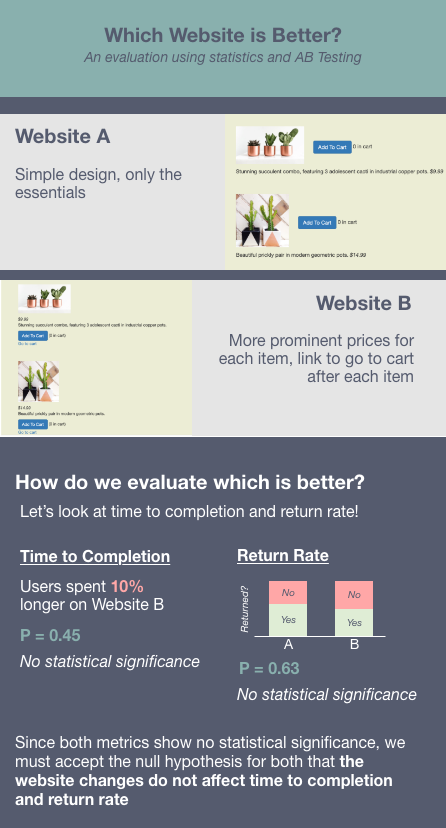
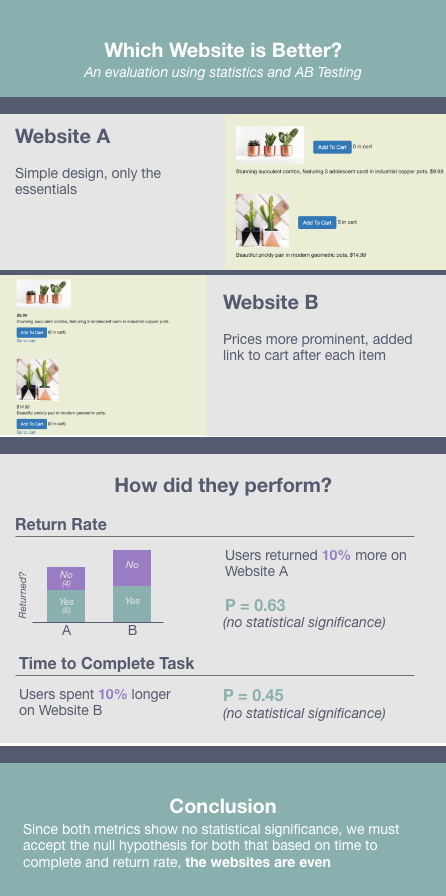
improvements

diff --git a/home.html b/home.html
@@ -14,7 +14,7 @@
 
     <h2> Overview </h2>
     <p>
-       In this project I sought to determine whether the changes I made to website provided a better user experience. To do this, I used AB testing on 24 users, then analyzed the data I processed about time spent on the website and the rate to which users returned to the website using T-Tests and Chi-Squared tests.
+       In this project I sought to determine whether the changes I made to website provided a better user experience. To do this, I conducted AB testing on 24 users and compared the amount of time users spent on each website and the rate at which users returned to each website. I then used T-Tests and Chi-Squared tests to find whether the differences were significant, and based on this I found that the two websites showed no statistical difference.
 
     </p>
     <h3>The Websites</h3>
@@ -29,6 +29,8 @@
 	      <img src="websiteB.png"/>
 	    </div>
 	</div>
+	<p>The main differences between the websites are that in Website B, the prices for each item have been move to a line about the description to be more prominent, a link to go to the cart has been added after each item, and the main cart button has been moved to the top.
+
 
     <h2> Hypotheses </h2>
     <h3>Time to Completion</h3>
@@ -39,11 +41,11 @@
 
     <h3>Return Rate</h3>
     I hypothesize that having link to go to the cart after each item in Website B, rather than only having one button to go to the cart in Website A, makes it easier for users to switch back and forth between the main page and the cart, and more back and forth means more returns to the page.
-    <p><b>Null Hypotheses:</b> Adding a link to go to the cart will not affect the return rate.</p>
-    <p><b>Alternate Hypotheses:</b> Adding a link to go to the cart after each item will increase the return rate. </p>
+    <p><b>Null Hypotheses:</b> Adding a link to the cart after each item will not affect the return rate.</p>
+    <p><b>Alternate Hypotheses:</b> Adding a link to the cart after each item will increase the return rate. </p>
 
  <h2>Data Collection</h2>
- <p>I collected data by deploying my two websites on heroku as a single website that will randomly select whether to show Website A or Website B. I then sent this link to other students in the class who were told to complete the task of adding $150 worth of cacti to the cart. 24 students visited the website and completed the task (I removed 3 visitors who arrived at the webpage and did not do anything). I retrieved the data from heroku concerning time to completion and return rate using heroku logs, then converted it to a csv so that I could process and clean it by hand.  </p>
+ <p>I collected data by deploying my two websites on heroku as a single website that randomly selects whether to show Website A or Website B each time it is loaded. I then sent this link to other students in the class who were told to complete the task of adding $150 worth of cacti to the cart. 24 students visited the website and completed the task (there were an additional 3 visitors who I removed because they arrived at the webpage and did not do anything). I retrieved time to completion and return rate data from heroku using heroku logs, then converted it to a csv so that I could process and clean it by hand using Google Sheets.  </p>
   
 
     <h2> Infographic </h2>
@@ -53,10 +55,10 @@
 </div>
 
     <h2>Conclusions & Takeaways </h2>
-    <p>Based on the findings of this study, there is no statistical significance between the two websites I tested in terms of time to completion and return rate. Given this, I would conclude that the changes I implemented––making the price more prominent and adding links to the cart––were not big enough or important changes to meaningfully impact the user experience. However, a few limitations that I would want to address before making this conclusion are:</p>
+    <p>Based on the findings of this study, there is no statistical significance between the two websites in terms of time to completion and return rate, so we must accept the null hypotheses. Given this, I would conclude that the changes I implemented––making the price more prominent and adding links to the cart––were not big or important enough to meaningfully impact the user experience. However, a few limitations that I would want to address before making this conclusion are:</p>
     <ul>
     	<li>The people who were tested were more likely to have seen  Website A’s format before because this was the base template given to us by TAs, which many others kept as well.  Therefore, it is possible that since people were familiar with this interface, they had already learned it which is what caused it to have better time to completion and return rate averages.</li>
-    	<li>The users tested in this study were not actually buying cacti, so there is a question of how representative they are to real users. They also tested my websites along with many others, so they might not have taken the task as seriously or deliberately as real users may.</li>
+    	<li>The users tested in this study were not actually buying cacti, so there is a question of how representative they are to real users. They also tested my websites along with many others, so they might not have taken the task as seriously or deliberately as real users would.</li>
     	<li>I was only able to collect data from 24 users. More data would have been better to make a confident conclusion. </li>
     </ul>
 
